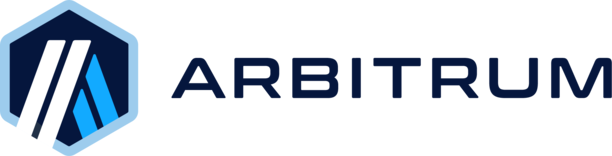
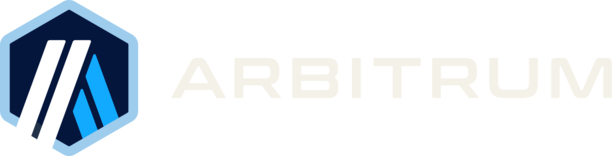
Integra quatro logotipos sem cartões entre hero e primeira seção e adiciona Ethereum
Replit-Commit-Author: Agent

Changed region(s): [[0.2794, 0.359, 1.0, 0.641]]

diff --git a/artifacts/bettex-site/src/components/technology/TechnologyNetworks.css b/artifacts/bettex-site/src/components/technology/TechnologyNetworks.css
@@ -1,19 +1,25 @@
 .technology-networks {
-  margin-bottom: clamp(30px, 4vw, 48px);
-  padding: 20px 0 22px;
-  border-block: 1px solid #c9bea0;
+  background: #070b1f;
+  padding: 26px 0 30px;
+  border-block: 1px solid rgba(130, 154, 199, .15);
+  color: #f4f1e8;
 }
+.technology-networks__wrap { width: min(calc(100% - 40px), 1200px); margin-inline: auto; }
 .technology-networks h3 {
-  margin: 0 0 18px;
-  color: #13204f;
-  font: 700 14px/1.4 var(--app-font-serif, sans-serif);
+  margin: 0 0 24px;
+  color: #a8b9da;
+  text-align: center;
+  font: 600 10px/1.4 var(--app-font-mono, monospace);
+  letter-spacing: .13em;
+  text-transform: uppercase;
 }
 .technology-networks__list {
   display: grid;
-  grid-template-columns: repeat(3, minmax(0, 1fr));
+  grid-template-columns: repeat(4, minmax(0, 1fr));
   gap: 24px;
+  max-width: 1050px;
   padding: 0;
-  margin: 0;
+  margin: 0 auto;
   list-style: none;
 }
 .technology-networks__list li { min-width: 0; text-align: center; }
@@ -21,11 +27,9 @@
   display: flex;
   align-items: center;
   justify-content: center;
-  width: min(100%, 280px);
-  height: 90px;
+  width: min(100%, 210px);
+  height: 44px;
   margin-inline: auto;
-  padding: 14px 20px;
-  border-radius: 10px;
 }
 .technology-networks__logo img {
   display: block;
@@ -34,14 +38,15 @@
   max-height: 100%;
   object-fit: contain;
 }
-.technology-networks__logo--arbitrum { background: #f4f1e8; }
-.technology-networks__logo--arbitrum img { width: 230px; }
-.technology-networks__logo--allora { background: #171717; }
-.technology-networks__logo--allora img { width: 185px; }
-.technology-networks__logo--robinhood { background: #dbfe52; }
-.technology-networks__logo--robinhood img { width: 220px; }
-.technology-networks__list p { margin: 10px 0 0; color: #13204f; font-size: 12px; line-height: 1.5; }
+.technology-networks__logo--arbitrum img { width: 170px; }
+.technology-networks__logo--ethereum img { width: 163px; }
+.technology-networks__logo--allora img { width: 138px; }
+.technology-networks__logo--robinhood img { width: 178px; }
+.technology-networks__list p { margin: 12px 0 0; color: #a8b9da; font-size: 11px; line-height: 1.5; }
 @media (max-width: 600px) {
-  .technology-networks__list { grid-template-columns: 1fr; gap: 18px; }
-  .technology-networks__logo { height: 80px; }
+  .technology-networks__wrap { width: calc(100% - 32px); }
+  .technology-networks__list { grid-template-columns: repeat(2, minmax(0, 1fr)); gap: 24px 20px; }
+  .technology-networks__logo { height: 40px; }
+  .technology-networks__logo--allora img { width: 118px; }
+  .technology-networks__list p { margin-top: 8px; }
 }

diff --git a/artifacts/bettex-site/src/components/technology/TechnologyNetworks.tsx b/artifacts/bettex-site/src/components/technology/TechnologyNetworks.tsx
@@ -2,7 +2,8 @@ import './TechnologyNetworks.css';
 
 export function TechnologyNetworks() {
   return (
-    <section className="technology-networks" aria-labelledby="technology-networks-title" data-testid="technology-networks">
+    <section id="redes-tecnologias" className="technology-networks" aria-labelledby="technology-networks-title" data-testid="technology-networks">
+      <div className="technology-networks__wrap">
       <h3 id="technology-networks-title">Redes e tecnologias</h3>
       <ul className="technology-networks__list">
         <li>
@@ -12,8 +13,14 @@ export function TechnologyNetworks() {
           <p>Rede blockchain</p>
         </li>
         <li>
+          <div className="technology-networks__logo technology-networks__logo--ethereum">
+            <img src={`${import.meta.env.BASE_URL}technologies/ethereum.webp`} alt="Ethereum" width={222} height={60} loading="lazy" decoding="async" />
+          </div>
+          <p>Rede blockchain</p>
+        </li>
+        <li>
           <div className="technology-networks__logo technology-networks__logo--allora">
-            <img src={`${import.meta.env.BASE_URL}technologies/allora.webp`} alt="Allora" width={524} height={167} loading="lazy" decoding="async" />
+            <img src={`${import.meta.env.BASE_URL}technologies/allora.webp`} alt="Allora" width={523} height={167} loading="lazy" decoding="async" />
           </div>
           <p>Inferências de IA</p>
         </li>
@@ -24,6 +31,7 @@ export function TechnologyNetworks() {
           <p>Trading de cripto</p>
         </li>
       </ul>
+      </div>
     </section>
   );
 }

diff --git a/artifacts/bettex-site/src/components/technology/TechnologySection.tsx b/artifacts/bettex-site/src/components/technology/TechnologySection.tsx
@@ -3,7 +3,6 @@ import { ArrowDown, WalletCards } from 'lucide-react';
 import { BettexMark } from '@/components/BettexMark';
 import { BrainEnergy } from './BrainEnergy';
 import './TechnologySection.css';
-import { TechnologyNetworks } from './TechnologyNetworks';
 
 export function TechnologySection({ children }: { children: ReactNode }) {
   return (
@@ -18,8 +17,6 @@ export function TechnologySection({ children }: { children: ReactNode }) {
           </div>
           <p className="technology-section__intro-note">Antes de cada operação, a BETTEX cruza análises de dados, probabilidades, liquidez e risco. Compara as oportunidades e seleciona o investimento mais vantajoso segundo suas análises, respeitando os limites de risco.</p>
         </header>
-
-        <TechnologyNetworks />
 
         <div className="technology-section__hierarchy" aria-label="compra concluída de BETTEX, participação automática do saldo, uma IA analisando vários mercados e crédito de lucro elegível na Carteira USDC.">
           <div className="technology-section__entry">

diff --git a/artifacts/bettex-site/src/App.tsx b/artifacts/bettex-site/src/App.tsx
@@ -26,6 +26,7 @@ import { NewEconomySection } from '@/components/NewEconomySection';
 import { HumanStorySection } from '@/components/HumanStorySection';
 import { RoadmapSection } from '@/components/RoadmapSection';
 import { chapters } from '@/components/WhitepaperChapters';
+import { TechnologyNetworks } from '@/components/technology/TechnologyNetworks';
 
 const queryClient = new QueryClient();
 const BASE_PATH = import.meta.env.BASE_URL.replace(/\/$/, '');
@@ -269,6 +270,7 @@ function Home() {
         </div>
       </section>
 
+      <TechnologyNetworks />
       <ProjectModelSection />
       <HumanStorySection />
 

diff --git a/artifacts/bettex-site/scripts/prepare-technology-logos.py b/artifacts/bettex-site/scripts/prepare-technology-logos.py
@@ -1,0 +1,58 @@
+"""Extract the supplied raster marks without their opaque poster backgrounds."""
+from pathlib import Path
+import subprocess
+
+ROOT = Path(__file__).resolve().parents[3]
+OUTPUT = ROOT / "artifacts/bettex-site/public/technologies"
+
+
+def extract(source, crop, size, background, foreground, ink, name):
+    width, height = size
+    pixels = subprocess.check_output([
+        "magick", str(ROOT / "attached_assets" / source),
+        "-crop", crop, "+repage", "-depth", "8", "rgb:-",
+    ])
+    result = bytearray()
+    for offset in range(0, len(pixels), 3):
+        # Green is well separated in the Robinhood source; Allora is grayscale.
+        value = pixels[offset + 1]
+        alpha = max(0, min(1, (value - background) / (foreground - background)))
+        # Discard low-level compression noise, not any solid logo detail.
+        if alpha < 0.035:
+            alpha = 0
+        result.extend((*ink, round(alpha * 255)))
+    subprocess.run([
+        "magick", "-size", f"{width}x{height}", "-depth", "8", "rgba:-",
+        "-resize", "524x167" if name == "allora.webp" else "572x112", "-define", "webp:lossless=true",
+        str(OUTPUT / name),
+    ], input=result, check=True)
+
+
+extract("image_1791064328137.png", "716x140+214+310", (716, 140),
+        254, 27, (244, 241, 232), "robinhood.webp")
+extract("image_1791064364365.png", "655x209+449+315", (655, 209),
+        23, 241, (241, 241, 241), "allora.webp")
+
+# Lighten only Arbitrum's dark wordmark for the dark band; keep its symbol colors.
+pixels = bytearray(subprocess.check_output([
+    "magick", str(ROOT / "attached_assets/image_1791064315086.png"),
+    "-trim", "+repage", "-resize", "612x156", "-depth", "8", "rgba:-",
+]))
+for offset in range(0, len(pixels), 4):
+    if (offset // 4) % 612 > 165:
+        pixels[offset:offset + 3] = bytes((244, 241, 232))
+subprocess.run([
+    "magick", "-size", "612x156", "-depth", "8", "rgba:-",
+    "-define", "webp:lossless=true", str(OUTPUT / "arbitrum.webp"),
+], input=pixels, check=True)
+
+# Reuse both parts of the supplied Ethereum lockup in a compact horizontal form.
+ethereum = str(ROOT / "attached_assets/image_1791065610734.png")
+subprocess.run([
+    "magick",
+    "(", ethereum, "-crop", "210x342+295+0", "+repage", "-resize", "37x60", ")",
+    "(", "-size", "15x60", "xc:none", ")",
+    "(", ethereum, "-crop", "800x140+0+409", "+repage", "-resize", "170x30", ")",
+    "-background", "none", "-gravity", "center", "+append",
+    "-define", "webp:lossless=true", str(OUTPUT / "ethereum.webp"),
+], check=True)

diff --git a/.agents/memory/technology-brand-positioning.md b/.agents/memory/technology-brand-positioning.md
@@ -3,8 +3,14 @@ name: Apresentação de marcas tecnológicas
 description: Limites comerciais da exibição de Arbitrum, Allora e Robinhood na homepage BETTEX.
 ---
 
-A exibição de Arbitrum, Allora e Robinhood na homepage dá visibilidade às redes e tecnologias, sem afirmar patrocínio, endosso, certificação, parceria contratual ou integração já operacional.
+A exibição de Arbitrum, Ethereum, Allora e Robinhood na homepage dá visibilidade às redes e tecnologias, sem afirmar patrocínio, endosso, certificação, parceria contratual ou integração já operacional.
 
 **Why:** O criador pediu visibilidade comercial para marcas já mencionadas na arquitetura, sem mudar o status técnico das integrações.
 
-**How to apply:** Ao revisar essa apresentação, manter os papéis objetivos: Arbitrum — rede blockchain; Allora — inferências de IA; Robinhood — trading de cripto. Preservar os nomes das marcas e não reintroduzir o slogan inglês da imagem Allora.
+**How to apply:** Ao revisar essa apresentação, manter os papéis objetivos: Arbitrum e Ethereum — rede blockchain; Allora — inferências de IA; Robinhood — trading de cripto. Preservar os nomes das marcas e não reintroduzir o slogan inglês da imagem Allora.
+
+O criador pediu a faixa entre o hero e a primeira seção e rejeitou a apresentação com caixas de fundos diferentes. Manter uma apresentação integrada, sem cartões coloridos independentes.
+
+**Why:** A combinação de caixas claras, pretas e verde neon foi explicitamente rejeitada pelo criador.
+
+**How to apply:** Não reintroduzir os fundos de pôster das imagens enviadas. Adaptar o contraste das marcas ao fundo comum sem redesenhar seus símbolos.
